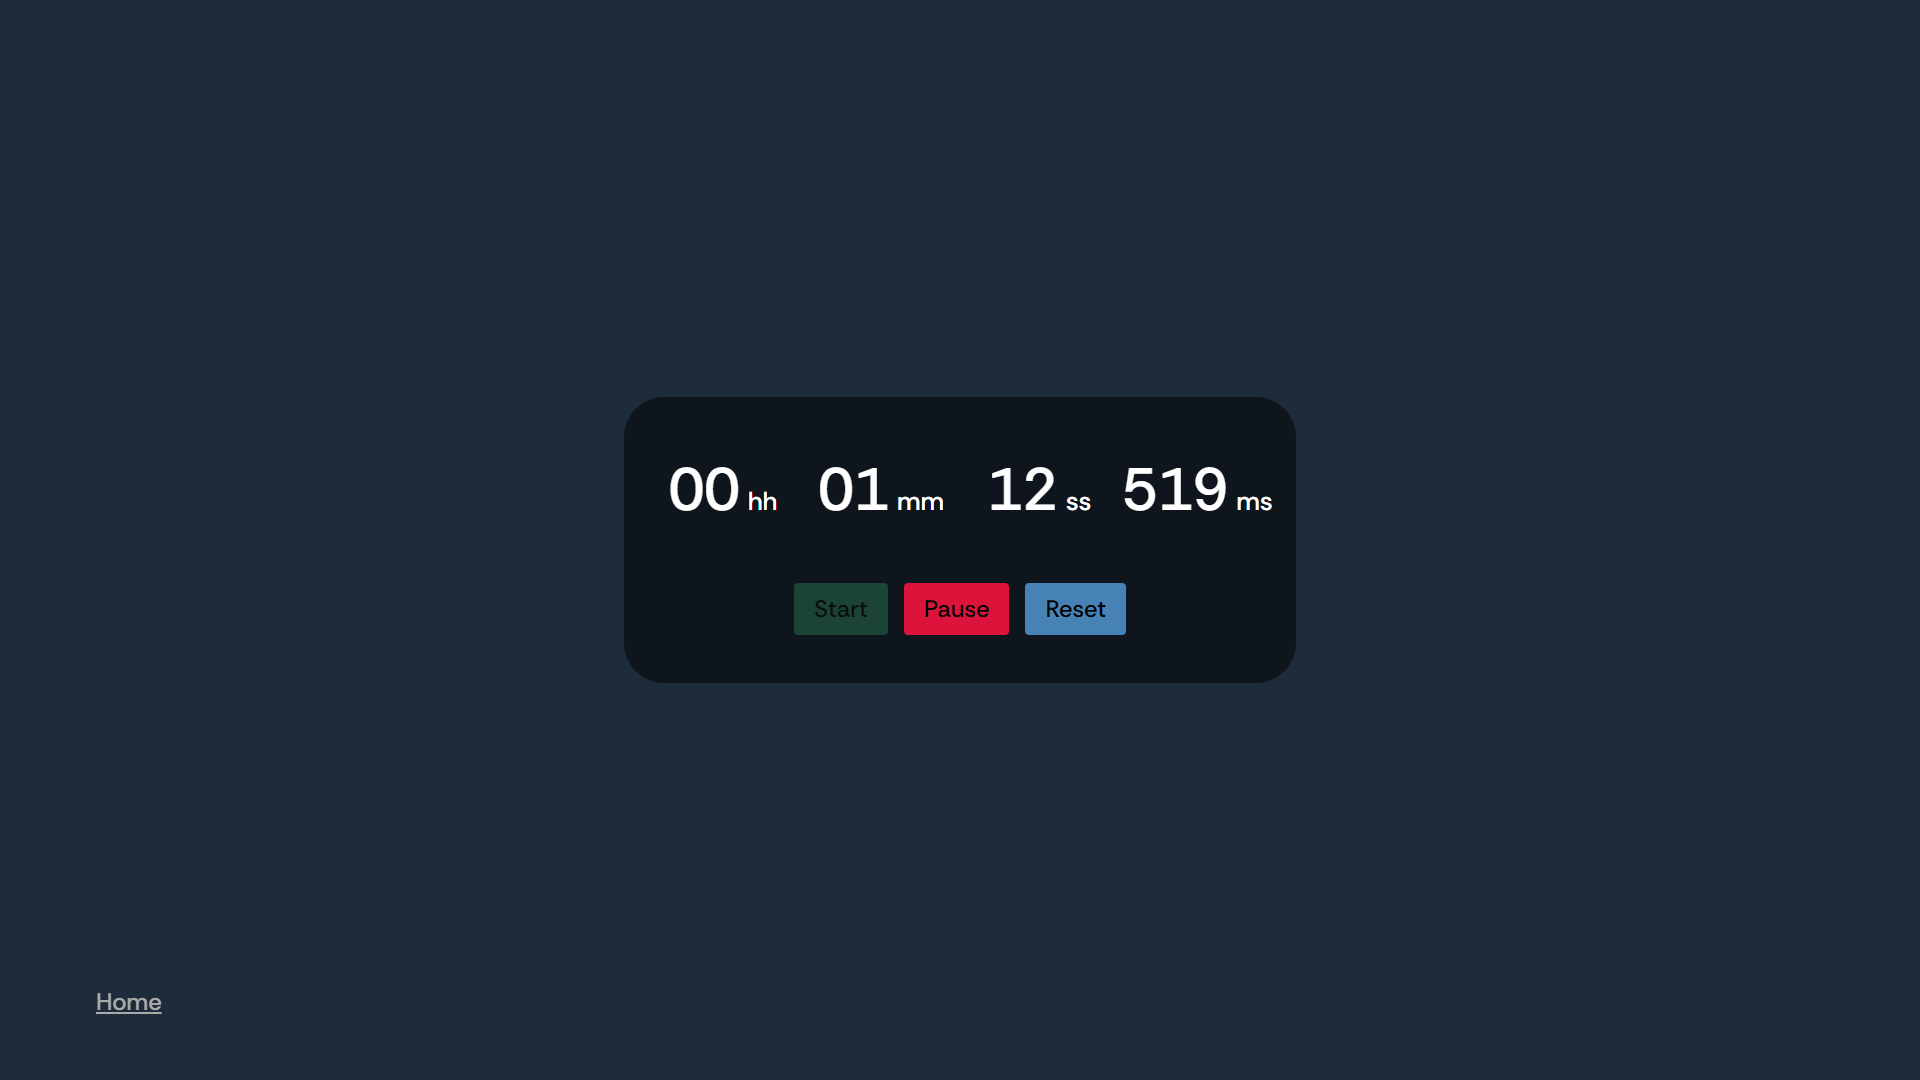
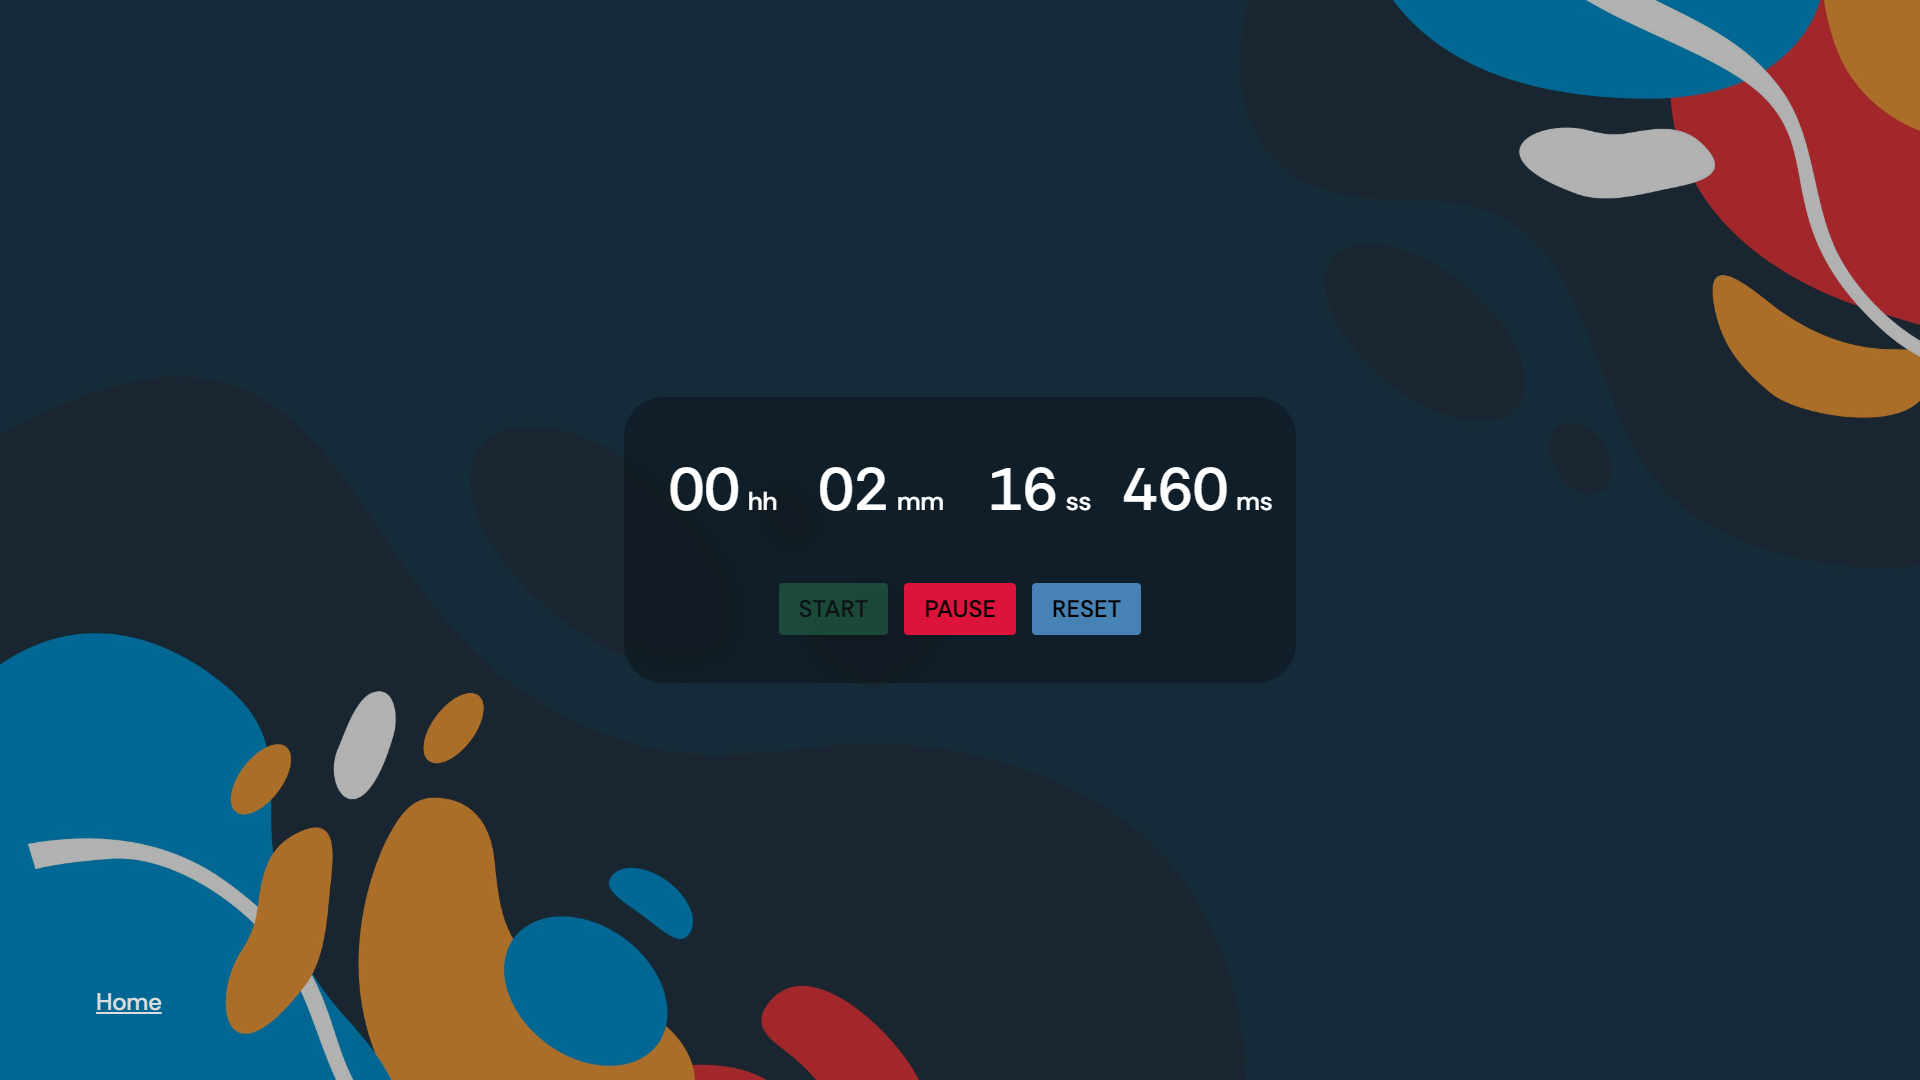
projects ui updated

diff --git a/src/pages/projects/Stopwatch.jsx b/src/pages/projects/Stopwatch.jsx
@@ -17,8 +17,6 @@ const Stopwatch = () => {
         return () => clearInterval(timerId.current);
     }, [controls.start]);
 
-    
-
     const startTimer = () => {
         setControls({start: true, pause: false, reset: false});
         startTimeRef.current = Date.now() - elapsedTime;
@@ -34,8 +32,8 @@ const Stopwatch = () => {
     }
 
     return (
-        <div className="h-[100vh] w-full flex items-center justify-center bg-[#1e2b3b]" style={{fontFamily: 'Rethink Sans, sans-serif'}}>
-            <div className="mx-[0.6rem] my-0 p-[1rem] w-auto h-auto flex flex-col items-center justify-center bg-[#000] bg-opacity-50 rounded-[2rem]">
+        <div className="h-[100vh] w-full flex items-center justify-center bg-[#1e2b3b] stopwatch-bg" style={{fontFamily: 'Rethink Sans, sans-serif'}}>
+            <div className="mx-[0.6rem] my-0 p-[1rem] w-auto h-auto flex flex-col items-center justify-center bg-[#000] bg-opacity-30 backdrop-blur rounded-[2rem]">
                 <div className="px-0 py-[1.2rem] flex flex-wrap items-center justify-center">
                     <p className="m-[0.2rem] w-[120px] text-[#fff] text-[3rem] text-center font-[500] rounded-[0.2rem]">
                         {String(Math.floor(elapsedTime / (1000 * 60 * 60))).padStart(2, '0')}
@@ -55,12 +53,12 @@ const Stopwatch = () => {
                     </p>
                 </div>
                 <div className="pt-[0.6rem] pb-[1rem] flex flex-wrap items-center justify-center">
-                    <button onClick={startTimer} disabled={controls.start} className={`m-[0.4rem] px-[1rem] py-[0.4rem] text-[1.2rem] font-[500] border-none outline-none cursor-pointer rounded-[0.2rem] transition-all ease-in-out duration-300 ${controls.start ? 'opacity-40' : 'opacity-100'} bg-[seagreen]`} style={{fontFamily: 'Rethink Sans, sans-serif'}}>Start</button>
-                    <button onClick={pauseTimer} disabled={controls.pause} className={`m-[0.4rem] px-[1rem] py-[0.4rem] text-[1.2rem] font-[500] border-none outline-none cursor-pointer rounded-[0.2rem] transition-all ease-in-out duration-300 ${controls.pause ? 'opacity-40' : 'opacity-100'} bg-[crimson]`} style={{fontFamily: 'Rethink Sans, sans-serif'}}>Pause</button>
-                    <button onClick={resetTimer} disabled={controls.reset} className={`m-[0.4rem] px-[1rem] py-[0.4rem] text-[1.2rem] font-[500] border-none outline-none cursor-pointer rounded-[0.2rem] transition-all ease-in-out duration-300 ${controls.reset ? 'opacity-40' : 'opacity-100'} bg-[steelblue]`} style={{fontFamily: 'Rethink Sans, sans-serif'}}>Reset</button>
+                    <button onClick={startTimer} disabled={controls.start} className={`m-[0.4rem] px-[1rem] py-[0.4rem] text-[1.2rem] font-[600] uppercase border-none outline-none cursor-pointer rounded-[0.2rem] transition-all ease-in-out duration-300 ${controls.start ? 'opacity-40' : 'opacity-100'} bg-[seagreen]`} style={{fontFamily: 'Rethink Sans, sans-serif'}}>Start</button>
+                    <button onClick={pauseTimer} disabled={controls.pause} className={`m-[0.4rem] px-[1rem] py-[0.4rem] text-[1.2rem] font-[600] uppercase border-none outline-none cursor-pointer rounded-[0.2rem] transition-all ease-in-out duration-300 ${controls.pause ? 'opacity-40' : 'opacity-100'} bg-[crimson]`} style={{fontFamily: 'Rethink Sans, sans-serif'}}>Pause</button>
+                    <button onClick={resetTimer} disabled={controls.reset} className={`m-[0.4rem] px-[1rem] py-[0.4rem] text-[1.2rem] font-[600] uppercase border-none outline-none cursor-pointer rounded-[0.2rem] transition-all ease-in-out duration-300 ${controls.reset ? 'opacity-40' : 'opacity-100'} bg-[steelblue]`} style={{fontFamily: 'Rethink Sans, sans-serif'}}>Reset</button>
                 </div>
             </div>
-            <Link to="/" className="fixed bottom-[3rem] left-[5%] text-[#aaa] text-[1.2rem] font-[500] underline">Home</Link>
+            <Link to="/" className="fixed bottom-[3rem] left-[5%] text-[#ddd] text-[1.2rem] font-[500] underline">Home</Link>
         </div>
     );
 }

diff --git a/src/pages/projects/Clock.jsx b/src/pages/projects/Clock.jsx
@@ -51,7 +51,7 @@ const Clock = () => {
     }, [time, date]);
 
     return (
-        <div className="mx-auto flex items-center justify-center h-[100vh] w-full bg-[#494278]" style={{fontFamily: 'IBM Plex Mono, monospace'}}>
+        <div className="mx-auto flex items-center justify-center h-[100vh] w-full bg-[#494278] clock-bg" style={{fontFamily: 'IBM Plex Mono, monospace'}}>
             <div className="p-[1rem]">
                 <h1 className="text-[#fff] text-[5rem] text-center font-[300] drop-shadow-lg">{time}</h1>
                 <p className="mt-[1rem] text-[#fff] text-[2.4rem] font-[300] text-center drop-shadow-lg">{date}</p>

diff --git a/src/App.css b/src/App.css
@@ -126,3 +126,15 @@ body {
 .tags span.tailwind-css {
   background: #06b6d4;
 }
+
+.stopwatch-bg {
+  background: linear-gradient(45deg, rgba(0, 0, 0, 0.3), rgba(0, 0, 0, 0.3)), url('./assets/images/backgrounds/cllock-bg.jpg');
+  background-attachment: fixed;
+  background-size: cover;
+}
+
+.clock-bg {
+  background: linear-gradient(45deg, rgba(0, 0, 0, 0.3), rgba(0, 0, 0, 0.3)), url('./assets/images/backgrounds/stopwatch-bg.jpg');
+  background-attachment: fixed;
+  background-size: cover;
+}
